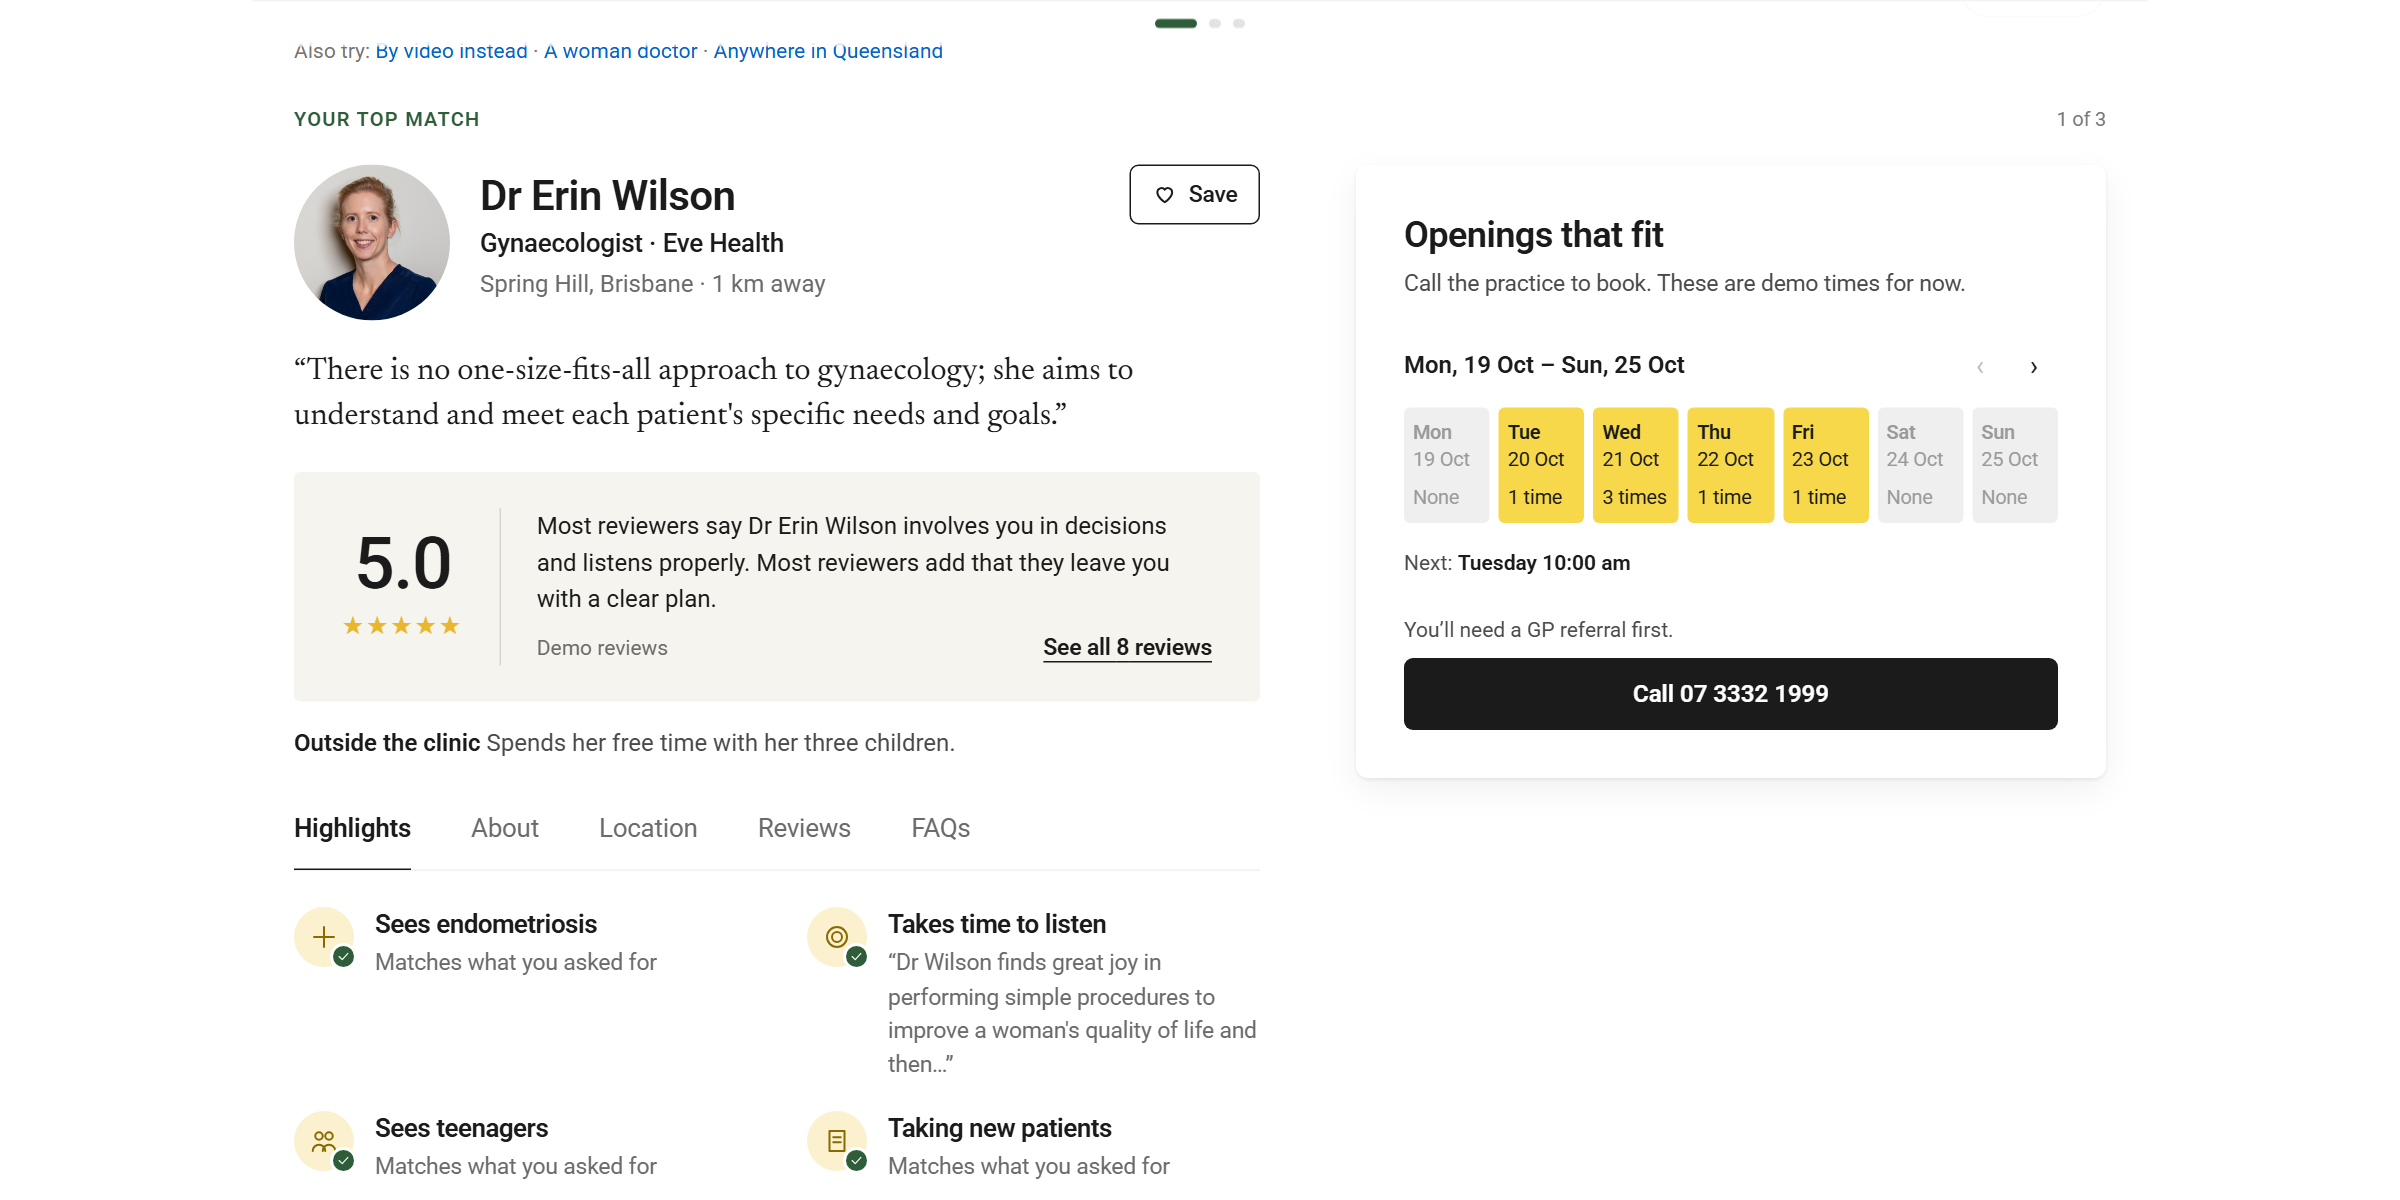
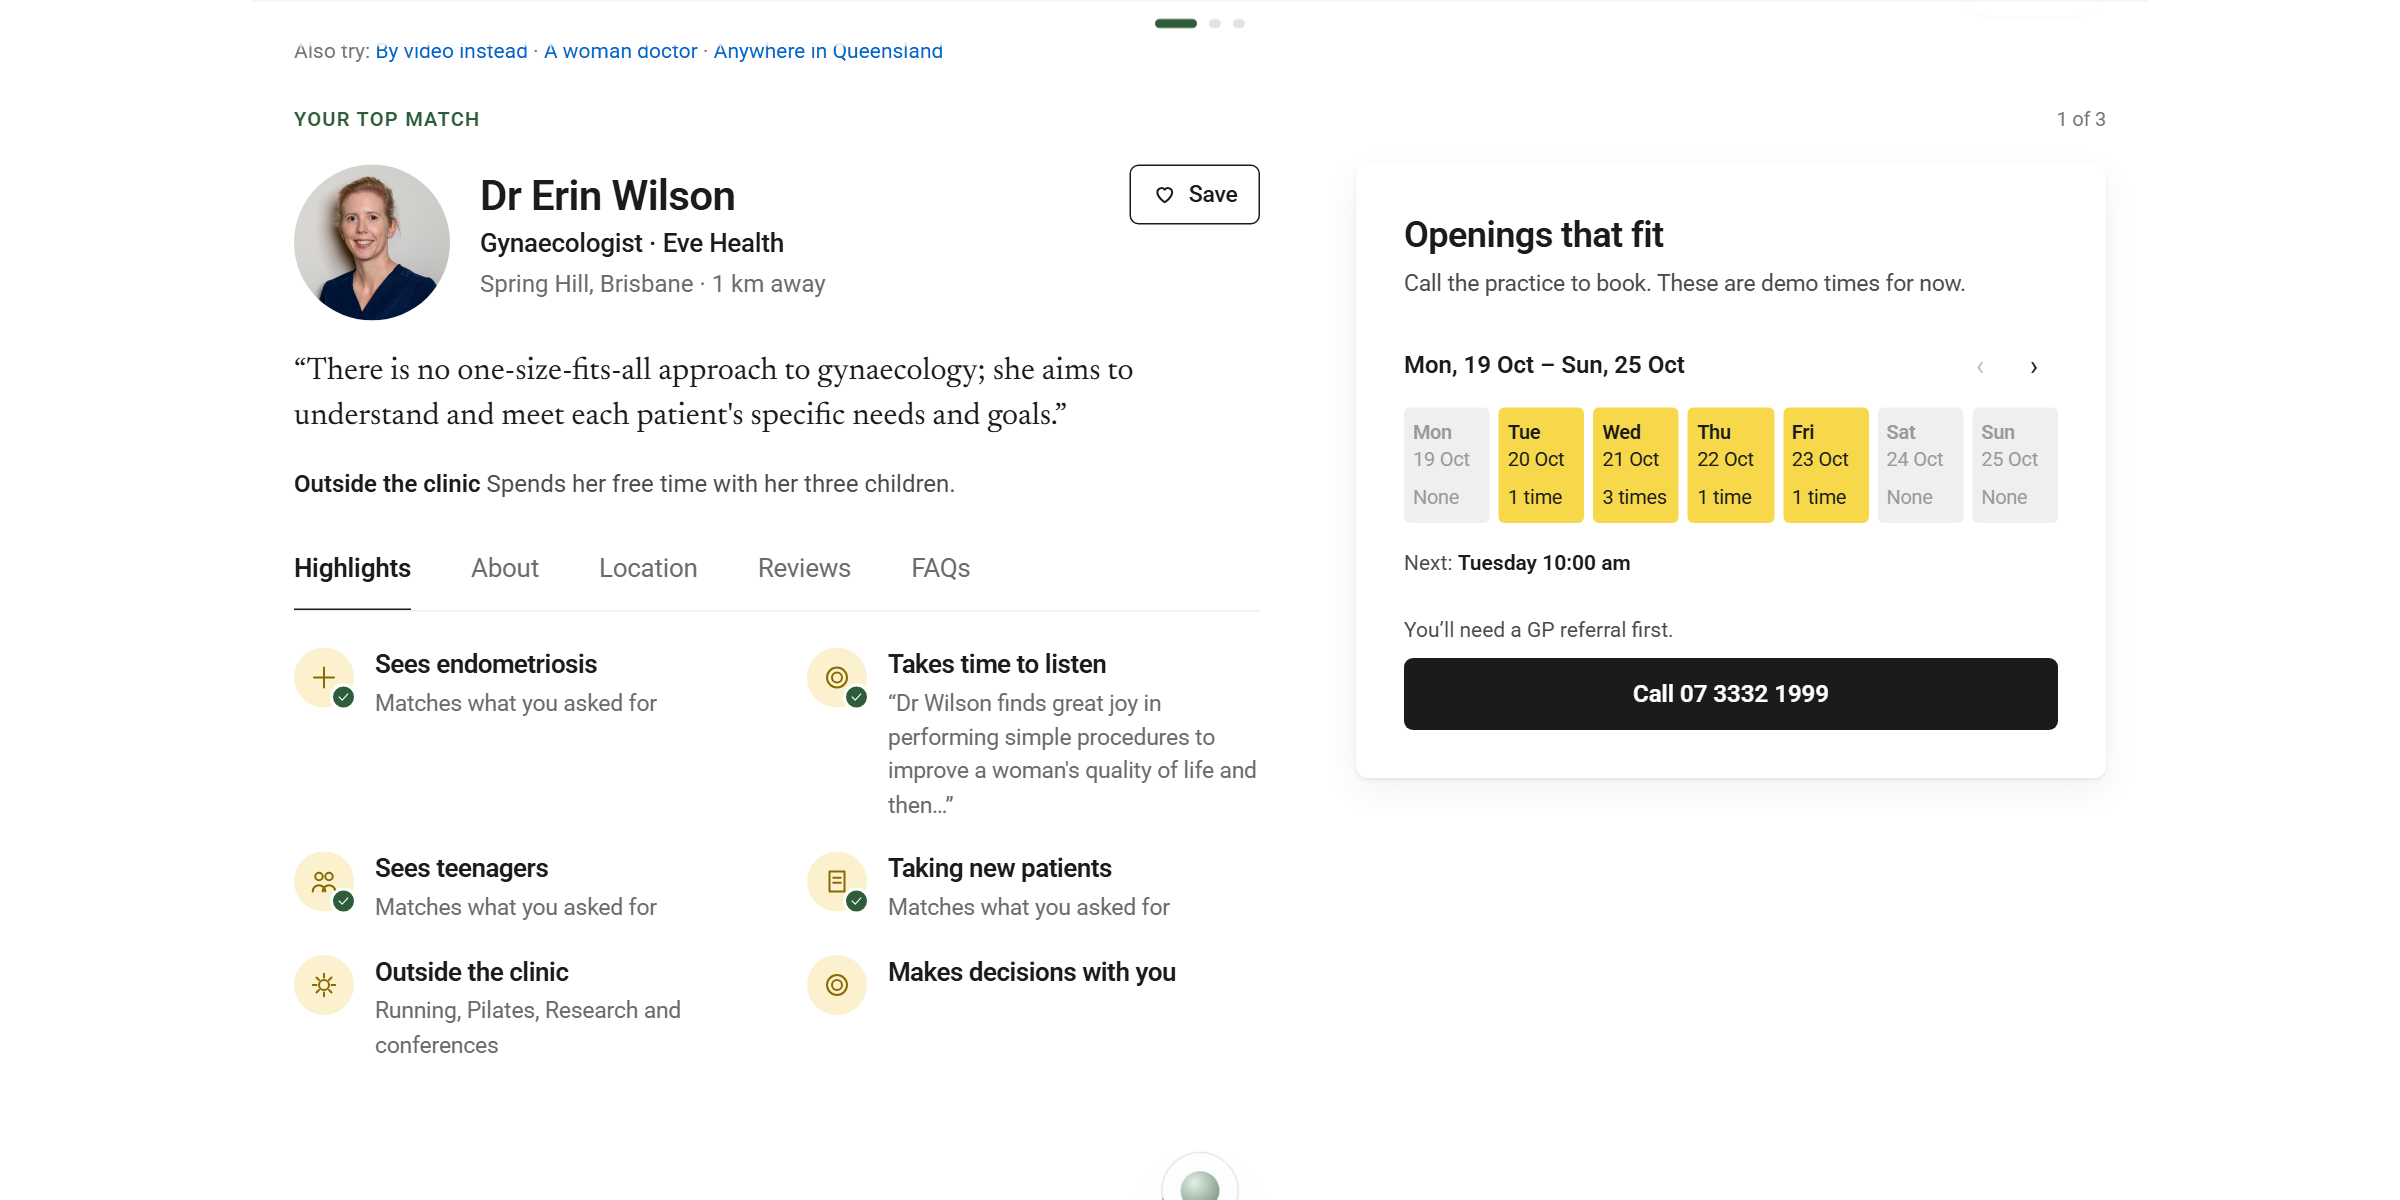
Match panel: clamp highlight detail to two lines; don't repeat Outside the clinic as a highlight

diff --git a/src/ui/screens/patient-a/MatchPanel.tsx b/src/ui/screens/patient-a/MatchPanel.tsx
@@ -58,7 +58,7 @@ function HighlightRows({ items }: { items: Highlight[] }) {
           </span>
           <span className="min-w-0">
             <span className="block text-[17px] font-semibold leading-[1.3] tracking-[-0.01em] text-ink">{h.label}</span>
-            <span className="mt-1 line-clamp-2 block text-[15px] leading-[1.5] text-[#6b6b6b]">{h.detail ?? (h.matched ? "Matches what you asked for" : "")}</span>
+            <span className="mt-1 line-clamp-2 text-[15px] leading-[1.5] text-[#6b6b6b]">{h.detail ?? (h.matched ? "Matches what you asked for" : "")}</span>
           </span>
         </li>
       ))}
@@ -102,6 +102,7 @@ export function MatchPanel({ card, index, total, labels, saved, onSave, newPatie
   let highlights = card.highlights ?? [];
   if (newPatientMatters) highlights = highlights.map((h) => (h.id === "open" ? { ...h, matched: true } : h)).sort((a, b) => Number(b.matched) - Number(a.matched));
   if (reviews?.highlyRecommended && !reviews.demo) highlights = [{ id: "recommended", kind: "people", label: "Recommended by patients", detail: `${reviews.count} verified Wattle patients, ${reviews.average?.toFixed(1)} of 5 on average`, matched: false }, ...highlights];
+  if (outside) highlights = highlights.filter((h) => h.kind !== "personal");
   const tabs = TABS.filter((t) => t !== "Highlights" || highlights.length > 0);
 
   return (
